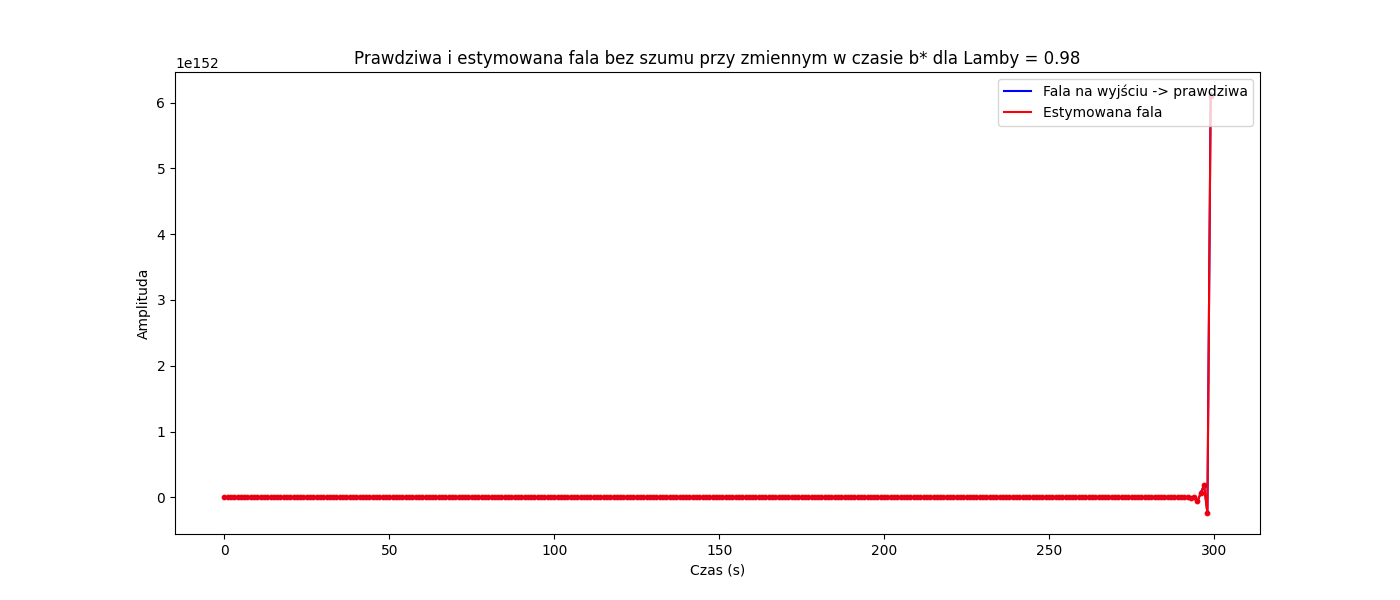
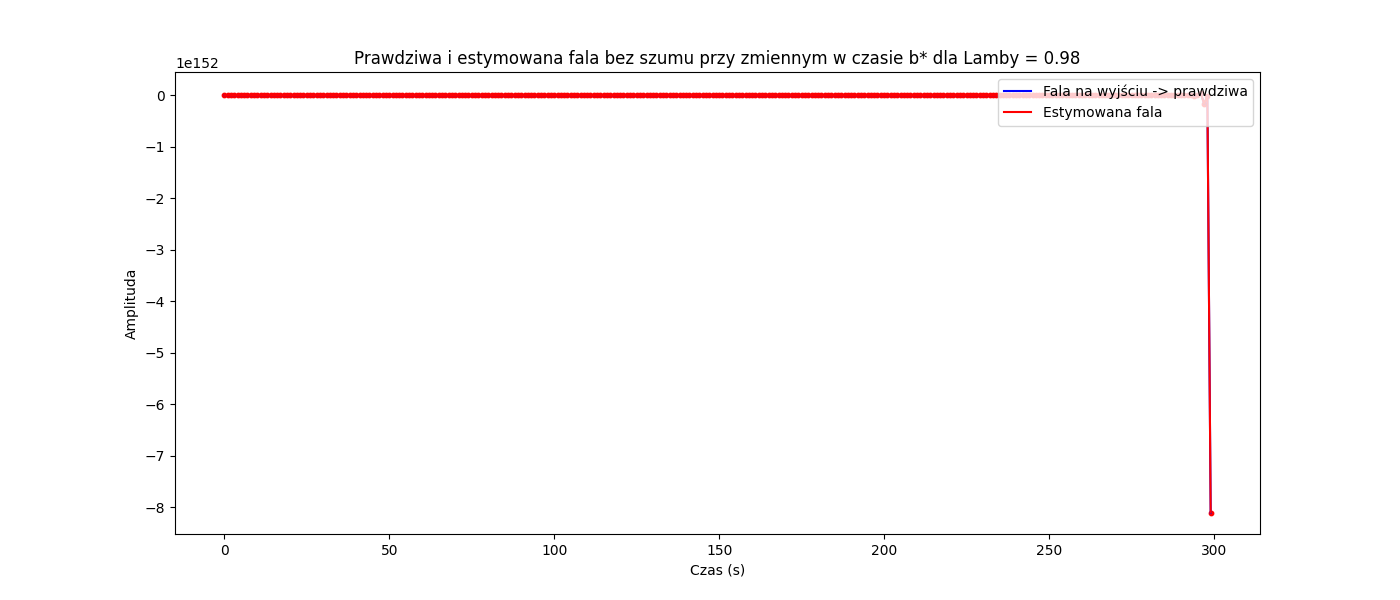
poprawka

diff --git a/adaptacyjne/projekt2/zad1-i-2-magda-edition.py b/adaptacyjne/projekt2/zad1-i-2-magda-edition.py
@@ -54,10 +54,10 @@ def simulation(N, b_true, Lambda, v_wanted):
 
         # sterowanie
         if k == 0:
-            u_k[k+1] = (v_wanted[k] - b_estimated[1,k]*u_k[k])/b_estimated[0,k]
+            u_k[k+1] = (v_wanted[k+1] - b_estimated[1,k]*u_k[k])/b_estimated[0,k]
             print(f"u_k dla 1 = {u_k[1]}")
         elif k < N - 1:
-            u_k[k+1] = (v_wanted[k] - b_estimated[1,k]*u_k[k] - b_estimated[2,k]*u_k[k-1])/b_estimated[0,k]
+            u_k[k+1] = (v_wanted[k+1] - b_estimated[1,k]*u_k[k] - b_estimated[2,k]*u_k[k-1])/b_estimated[0,k]
 
         if k < N - 1:
                 Phi[2,0] = Phi[1,0]
